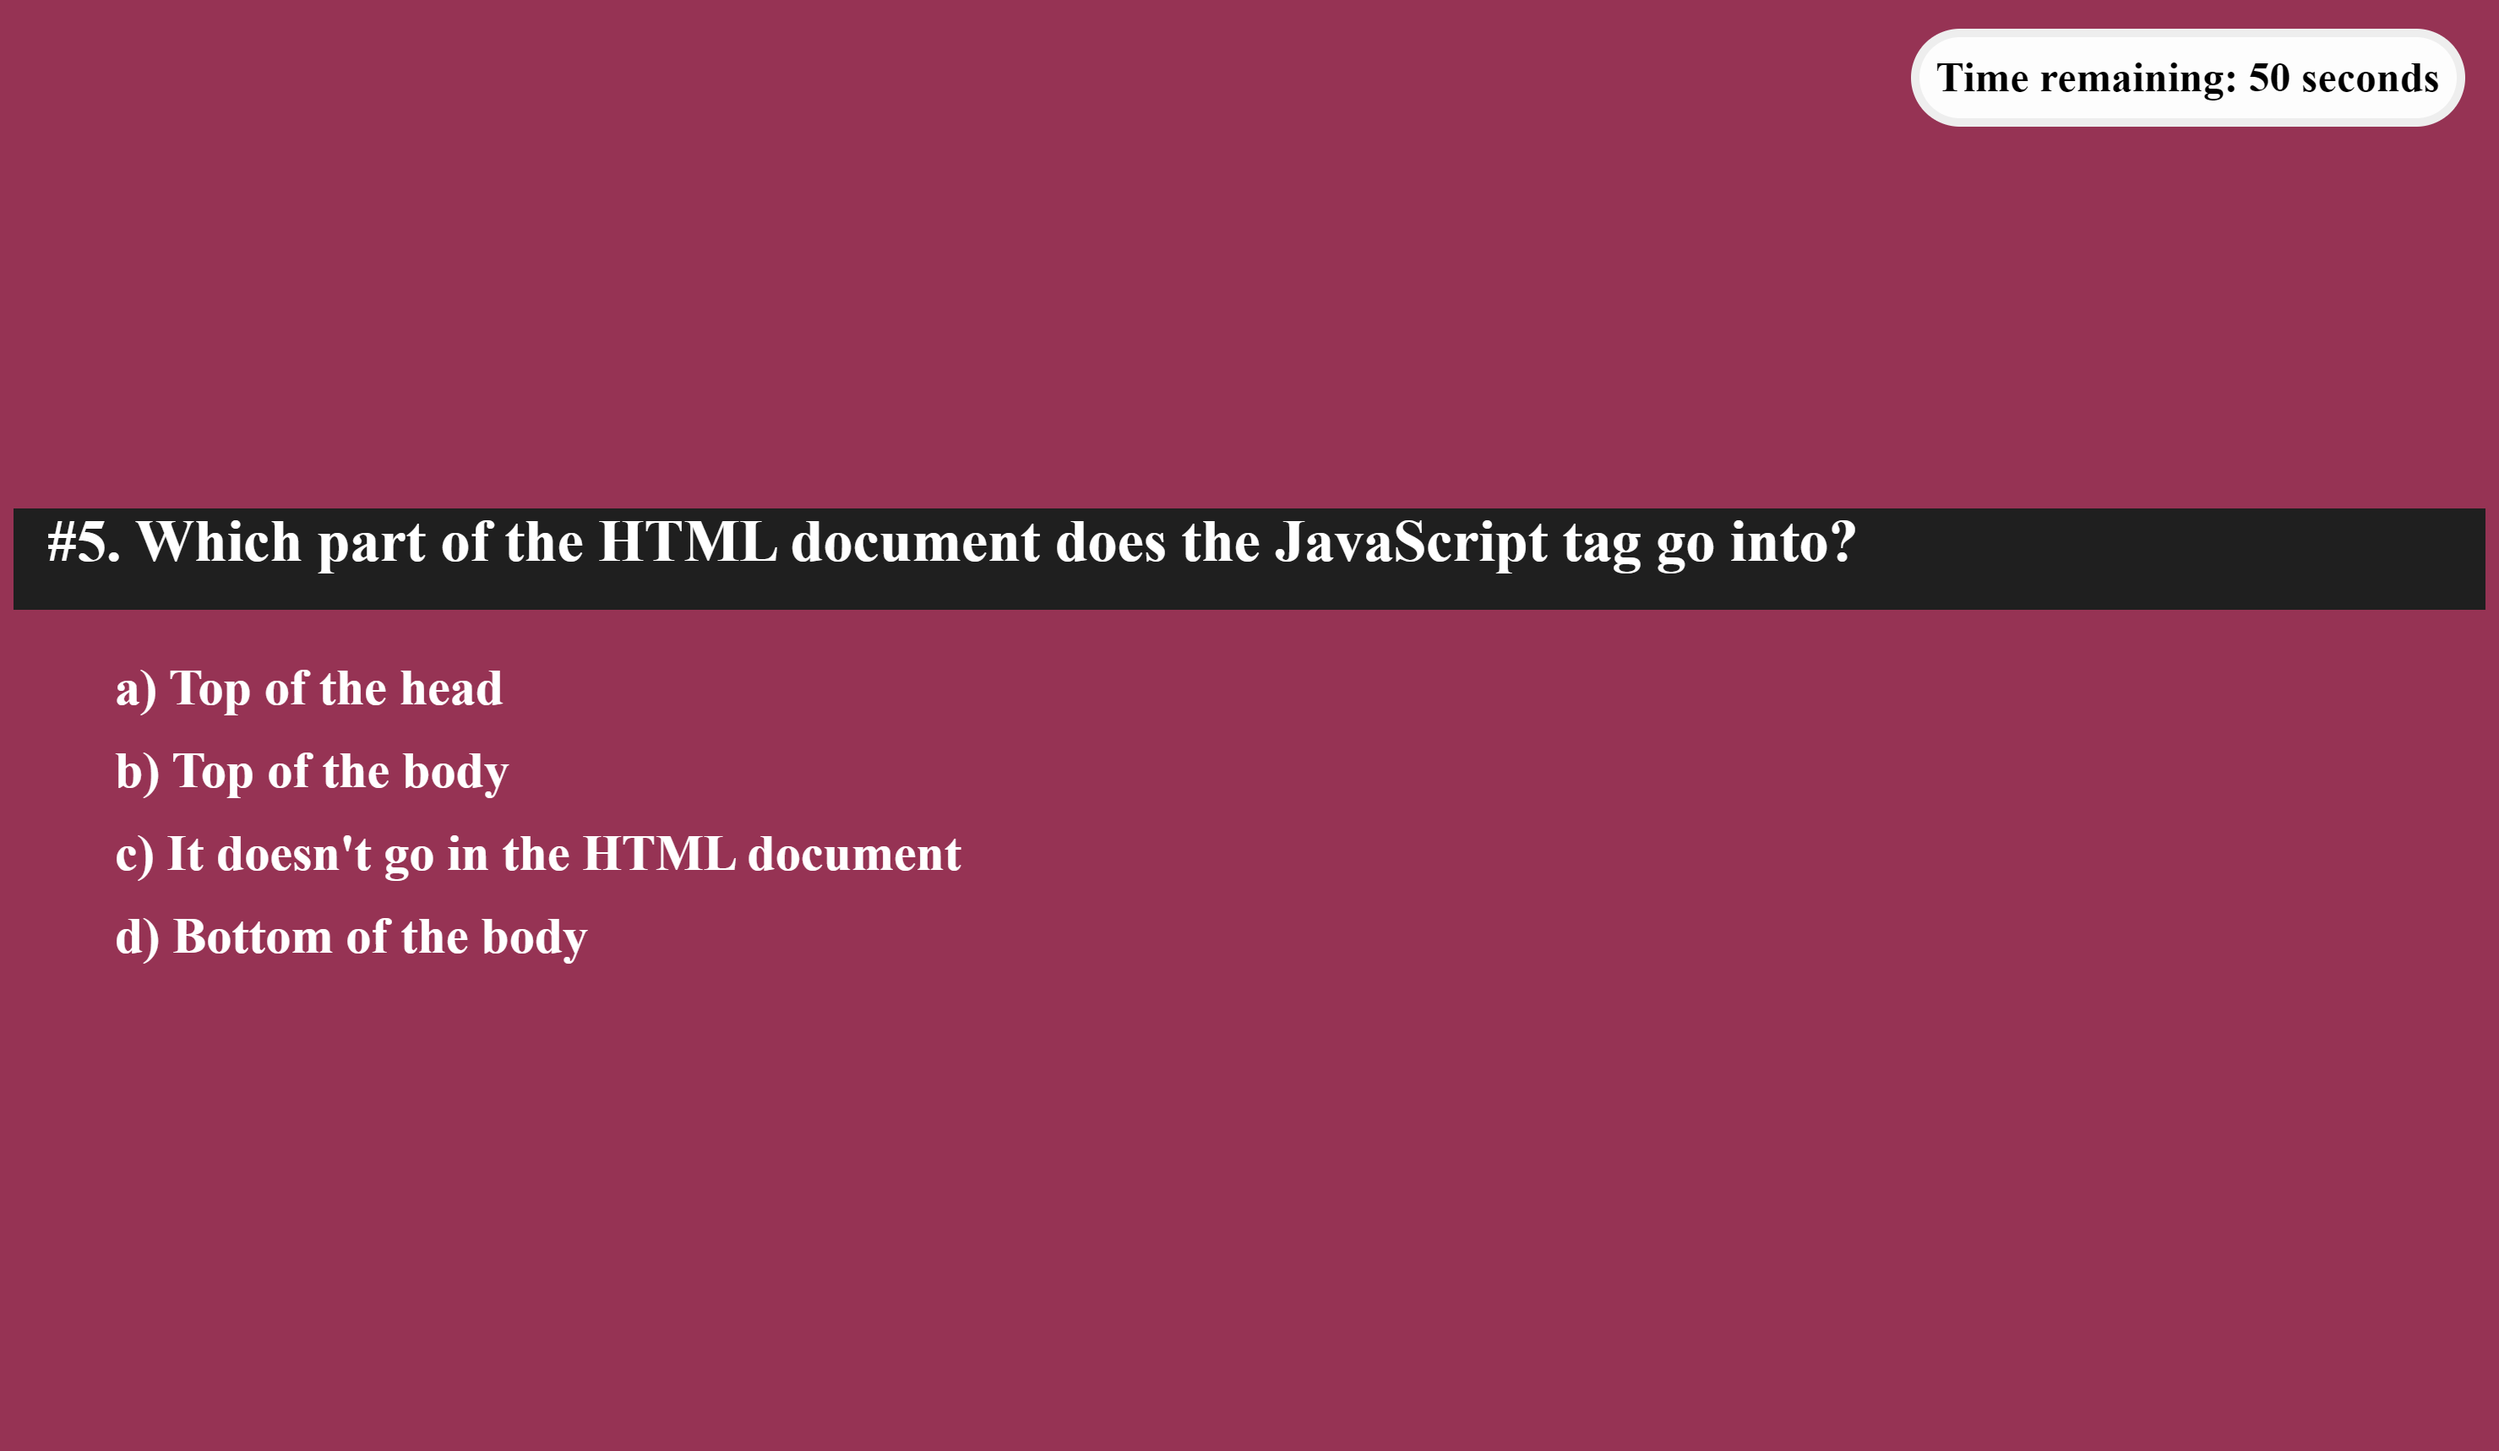
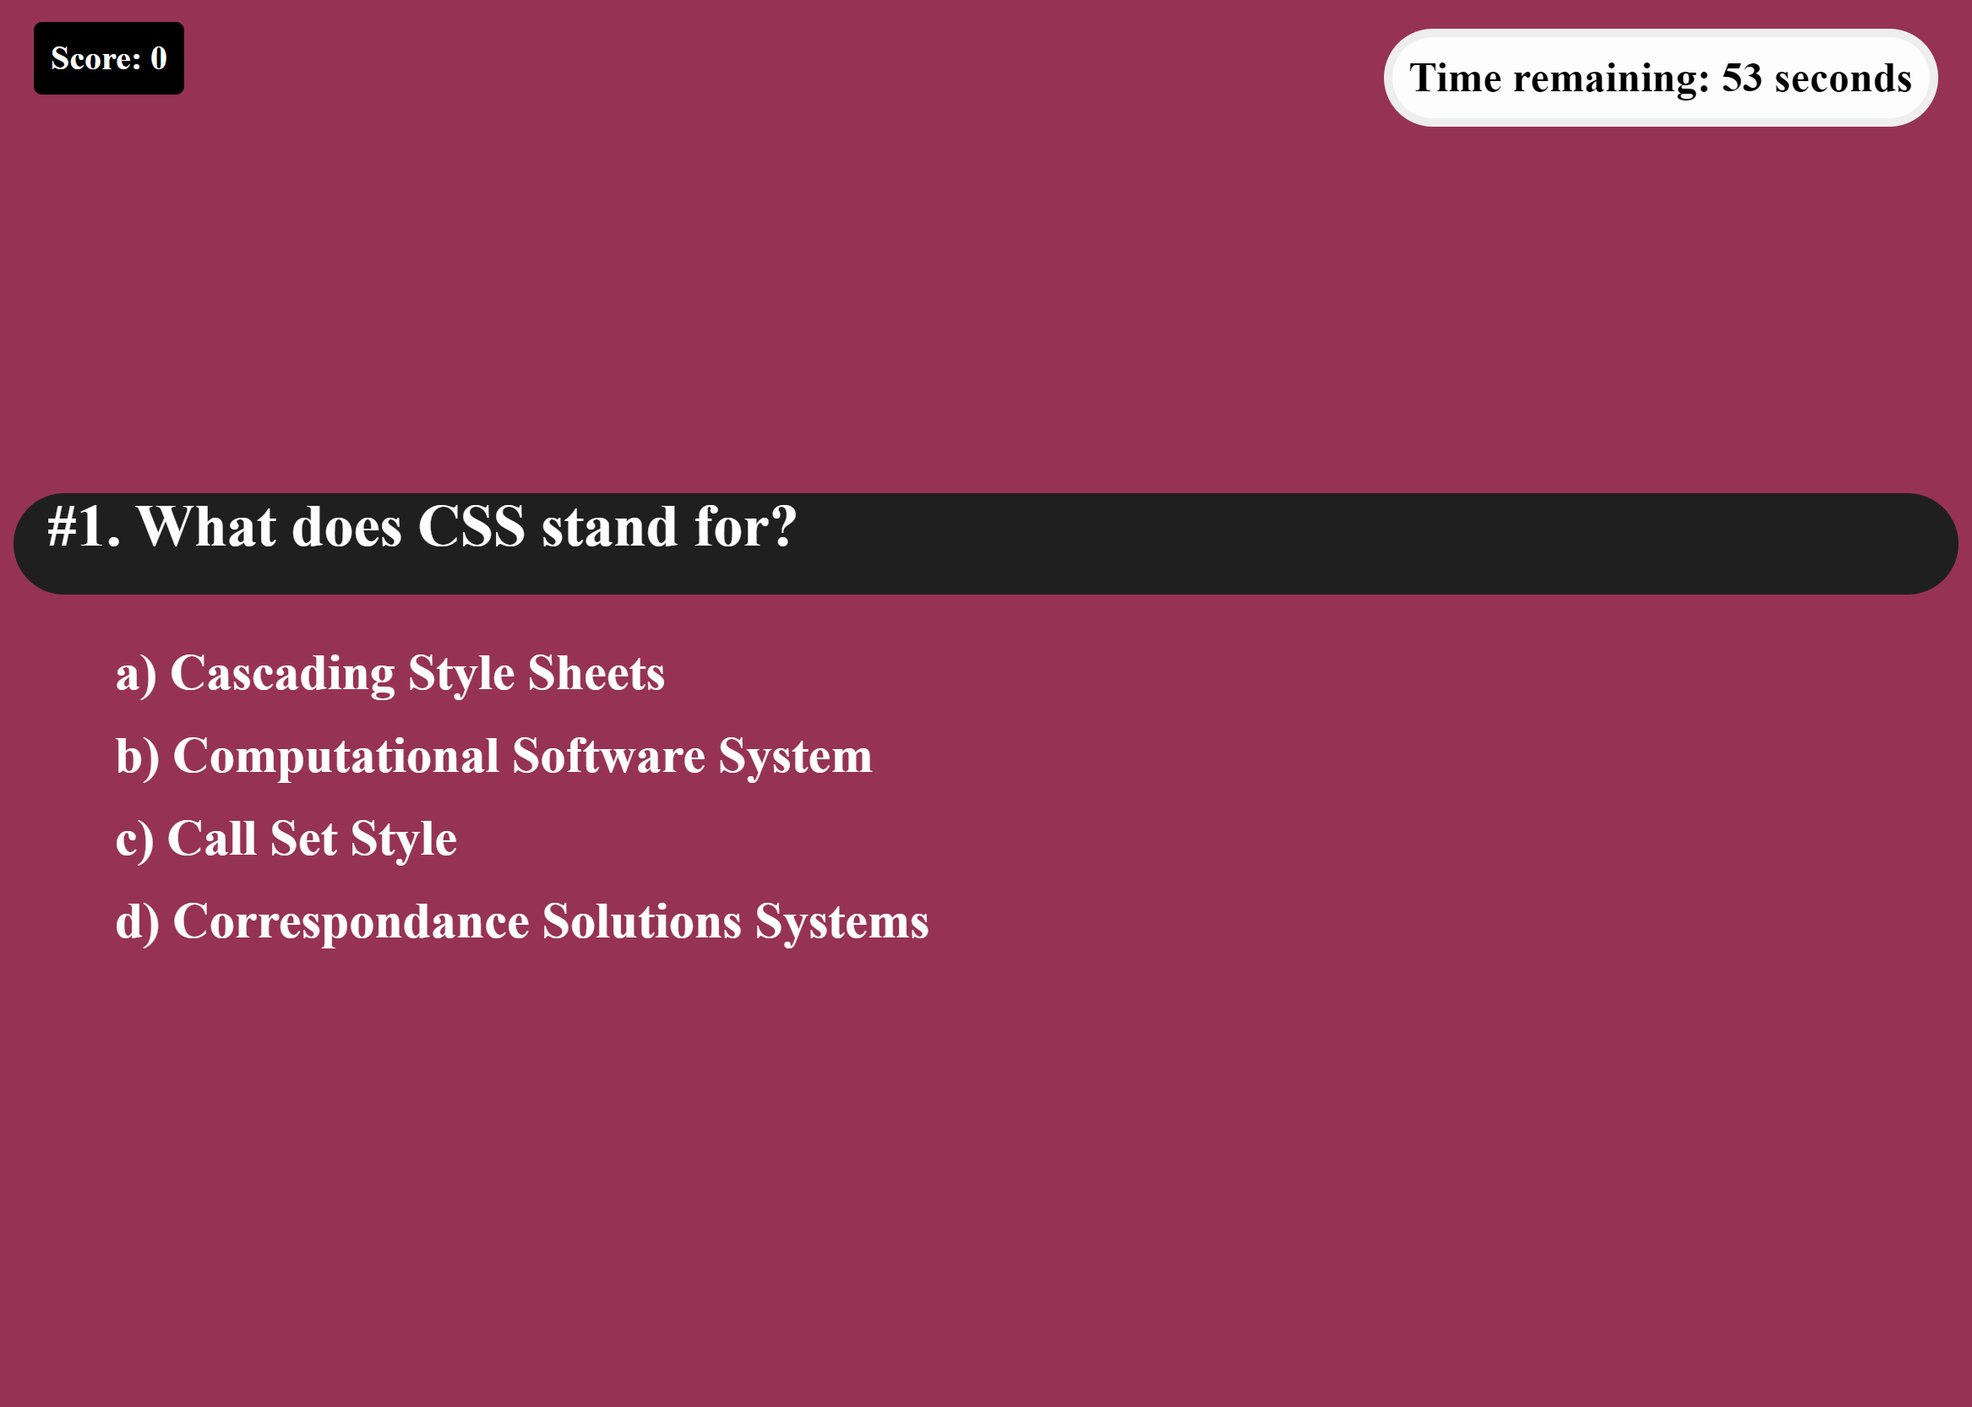
finished JS logic, got everything working correctly. Successfully got the entire quiz working.

diff --git a/assets/js/script.js b/assets/js/script.js
@@ -1,13 +1,16 @@
 // global element variables
 var introEl = document.querySelector(".intro-page");
 var timerEl = document.querySelector(".timer");
+var scoreEl = document.querySelector(".score");
 var mainEl = document.querySelector(".main");
-var quizQuestion = document.querySelector(".question")
-var quizAnswers = document.querySelector(".answers");
+var quizQuestionEl = document.querySelector(".question")
+var quizAnswersEl = document.querySelector(".answers");
+var userStatsEl = document.querySelector(".stats");
 
 var title = document.createElement("h1");
 var description = document.createElement("h4")
 var startButton = document.createElement("button");
+var replayButton = document.createElement("button");
 
 // creating elements that will be the possible answers when displayed on the screen
 var a1 = document.createElement("p");
@@ -15,13 +18,19 @@ var a2 = document.createElement("p");
 var a3 = document.createElement("p");
 var a4 = document.createElement("p");
 
+startButton.className = "start-button";
+replayButton.className = "replay-button";
+
 // global game variables
 var timeRemaining;
-var finishedQuiz;
 var score;
+var finishedQuiz;
 
 // global var that helps iterate through question numbers
-var questionNum = 0;
+var questionNum;
+
+// players initial and score get stored here
+var playerData = [];
 
 // array of objects, containing the question, the possible answers, and the correct answer
 var answers = [
@@ -52,14 +61,18 @@ var answers = [
     }
 ]
 
-// players initial and score get stored here
-var playerData = [];
-
 // function that displays the introduction screen
 function displayIntro() {
-    title.textContent = "JavaScript Quiz";
+    init();
+
+    replayButton.textContent = "PLAY AGAIN?";
     description.textContent = "This is a JavaScript quiz coded using the JavaScript Browser API!\nClick on the start button to begin!"
     startButton.textContent = "START";
+    // hides the score by default
+    scoreEl.setAttribute("style", "display: none");
+    mainEl.setAttribute("style", "display: none");
+
+    title.textContent = "JavaScript Quiz";
 
     introEl.appendChild(title);
     introEl.appendChild(description);
@@ -68,80 +81,97 @@ function displayIntro() {
 
 // renders the quiz section of the program
 function displayQuiz() {
+    mainEl.setAttribute("style", "display: block");
+    scoreEl.textContent = "Score: " + score;
     startTimer();
 
     // starts at index 0, and progressively cycles through each question
     displayQuestion(questionNum);
-
 }
 
 // renders each indivual set of questions and answers
 function displayQuestion(questionNum) {
     // sets the question value
-    quizQuestion.textContent = "#" + (questionNum+1) + ". " + answers[questionNum].question;
+    quizQuestionEl.textContent = "#" + (questionNum + 1) + ". " + answers[questionNum].question;
 
     // sets the
     a1.textContent = "a) " + answers[questionNum].options[0];
-    quizAnswers.appendChild(a1);
+    quizAnswersEl.appendChild(a1);
     a2.textContent = "b) " + answers[questionNum].options[1];
-    quizAnswers.appendChild(a2);
+    quizAnswersEl.appendChild(a2);
     a3.textContent = "c) " + answers[questionNum].options[2];
-    quizAnswers.appendChild(a3);
+    quizAnswersEl.appendChild(a3);
     a4.textContent = "d) " + answers[questionNum].options[3];
-    quizAnswers.appendChild(a4);
+    quizAnswersEl.appendChild(a4);
 }
 
+replayButton.addEventListener("click", function () {
+    userStatsEl.setAttribute("style", "display: none");
+    mainEl.setAttribute("style", "display: none");
+    introEl.setAttribute("style", "display: block");
+    replayButton.setAttribute("style", "display: none");
+
+    displayIntro();
+})
+
 // event listener to clear the header content whem the 'start' button is clicked
-startButton.addEventListener("click", function (){
+startButton.addEventListener("click", function () {
     introEl.textContent = " ";
-    quizQuestion.setAttribute("style", "display: block");
-    init();
+    mainEl.setAttribute("style", "display: block");
+    displayQuiz();
 })
 
 // event listeners for each possible answer -- looks for a 'click' event
-a1.addEventListener("click", function(event) {
+a1.addEventListener("click", function (event) {
     parseInput(0);
-    
+
     if (questionNum < 4) {
         questionNum++;
         displayQuestion(questionNum);
     } else {
-        endQuiz();
+        finishedQuiz = true;
     }
 });
 
-a2.addEventListener("click", function(event) {
+a2.addEventListener("click", function (event) {
     parseInput(1);
 
     if (questionNum < 4) {
         questionNum++;
         displayQuestion(questionNum);
     } else {
-        endQuiz();
+        finishedQuiz = true;
     }
 });
 
-a3.addEventListener("click", function(event) {
+a3.addEventListener("click", function (event) {
     parseInput(2);
-    
+
     if (questionNum < 4) {
         questionNum++;
         displayQuestion(questionNum);
     } else {
-        endQuiz();
+        finishedQuiz = true;
     }
 });
 
-a4.addEventListener("click", function(event) {
+a4.addEventListener("click", function (event) {
     parseInput(3);
 
     if (questionNum < 4) {
         questionNum++;
         displayQuestion(questionNum);
     } else {
-        endQuiz();
+        finishedQuiz = true;
     }
 });
+
+function init() {
+    timeRemaining = 60;
+    score = 0;
+    finishedQuiz = false;
+    questionNum = 0;
+}
 
 // compares the user input to the CORRECT answer in the question object
 function parseInput(index) {
@@ -154,53 +184,56 @@ function parseInput(index) {
     } else {
         timeRemaining -= 5;
     }
+
+    scoreEl.textContent = "Score: " + score;
     console.log(stringAnswer === answers[questionNum].answer);
-}
-
-// initializer function. sets game state, starts timer, etc
-function init() {
-    score = 0;
-    timeRemaining = 60;
-    finishedQuiz = false;
-    currentQ = 0;
-    questionIndex = 0;
-    displayQuiz();
-}
-
-// displays highscores to the screen
-function renderHighscored() {
-
 }
 
 // logs score in local storage
 function logScore() {
-    var newUser = document.createElement("li")
 
-    playerData[1] = 10;
-    mainEl.appendChild(newUser);
-    localStorage.setItem(playerData[0], JSON.stringify(playerData));
+}
+
+function displayStats() {
+    mainEl.setAttribute("style", "display: none");
+    userStatsEl.setAttribute("style", "display: block");
+    var localStorageEntries = Object.entries(localStorage);
+
+    console.log(localStorage);
+    for (var i = 0; i < localStorageEntries.length; i++) {
+        var nextUser = document.createElement("h2");
+        nextUser.className = "next-user";
+        nextUser.textContent = (i + 1).toString() + ". " + localStorageEntries[i][0] + " -- " + localStorage.getItem(localStorageEntries[i][0]);
+        userStatsEl.appendChild(nextUser);
+    }
+
+    replayButton.textContent = "PLAY AGAIN";
+    replayButton.setAttribute("style", "display: block");
+    document.body.appendChild(replayButton);
 }
 
 // ends the quiz and displays highscores
 function endQuiz() {
-    mainEl.textContent = "score: " + score;
+
+    localStorage.setItem(playerData[0], playerData[1]);
+    displayStats();
 }
 
 // starts the timer count down
 function startTimer() {
     timerEl.setAttribute("style", "display: block");
+    scoreEl.setAttribute("style", "display: block");
+    quizQuestionEl.setAttribute("style", "display: block");
+
     timerEl.textContent = "Time remaining: " + timeRemaining + " seconds";
+    scoreEl.textContent = "Score: " + score;
     var timer = setInterval(function () {
         timeRemaining--;
         timerEl.textContent = "Time remaining: " + timeRemaining + " seconds";
         // if there is time left over and the user finishes the quiz
-        if (finishedQuiz && timeRemaining > 0) {
-            clearInterval(timer);
-            endQuiz();
-        }
-
-        if (timeRemaining === 0) {
-            mainEl.textContent = " ";
+        if (finishedQuiz && timeRemaining > 0 || timeRemaining <= 0) {
+            playerData[0] = window.prompt("ENTER INITIAL: ");
+            playerData[1] = score;
             clearInterval(timer);
             endQuiz();
         }

diff --git a/assets/css/style.css b/assets/css/style.css
@@ -3,7 +3,7 @@
     background-color: rgb(150, 51, 84);
 }
 
-button {
+.start-button {
     background-color: white;
     color: black;
     font-size: 25px;
@@ -14,8 +14,21 @@ button {
     padding: 20px;
 }
 
+.replay-button {
+    position: absolute;
+    bottom: 50%;
+    left: 65%;
+    font-size: 30px;
+}
+
 .answers {
     padding-left: 60px;
+}
+
+.next-user {
+    text-align: left;
+    margin-left: 20vw;
+    font-size: 20px;
 }
 
 .timer {
@@ -29,6 +42,19 @@ button {
     background-color: rgb(253, 253, 253);
     color: black;
     border: 5px solid rgb(238, 238, 238);
+    font-weight: 900;
+}
+
+.score {
+    display: none;
+    position: absolute;
+    top: 0;
+    font-size: 20px;
+    left: 20px;
+    padding: 10px;
+    border-radius: 5px;
+    background-color: rgb(0, 0, 0);
+    color: rgb(255, 255, 255);
     font-weight: 900;
 }
 
@@ -55,6 +81,13 @@ button {
     padding-bottom: 15px;
 }
 
+.main p:hover {
+    color: rgb(219, 151, 180);
+    border-radius: 30px;
+    transition: ease-in-out 0.3s;
+    cursor: pointer;
+}
+
 .question {
     /* default hides this, so that it doesn't show up in the introduction */
     display: none;
@@ -64,4 +97,10 @@ button {
     padding-bottom: 20px;
     padding-left: 20px;
     border-radius: 100px;
+}
+
+.stats {
+    display: none;
+    width: 1000px;
+    font-size: 30px;
 }

diff --git a/index.html b/index.html
@@ -13,9 +13,12 @@
 
     <div class="main">
         <h1 class="timer"></h1>
+        <h1 class="score"></h1>
         <h2 class="question"></h2>
         <h2 class="answers"></h2>
     </div>
+
+    <div class="stats"></div>
 
     <script src="./assets/js/script.js"></script>
 </body>
